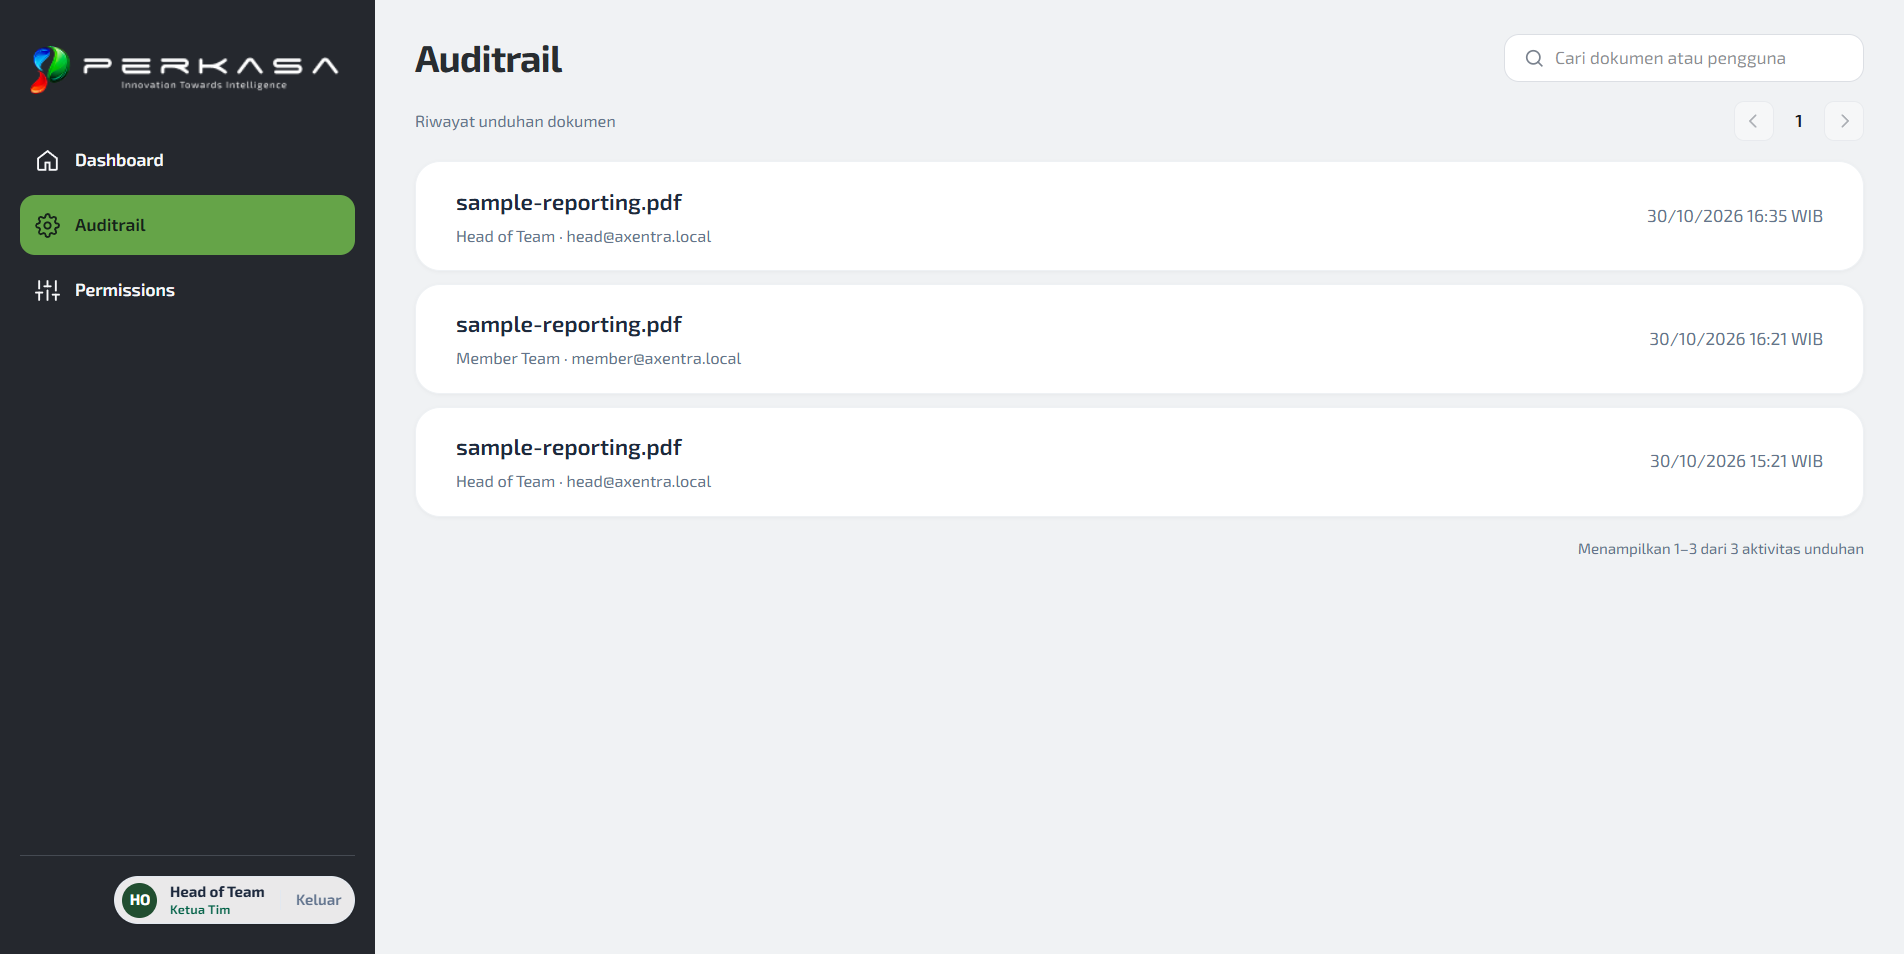
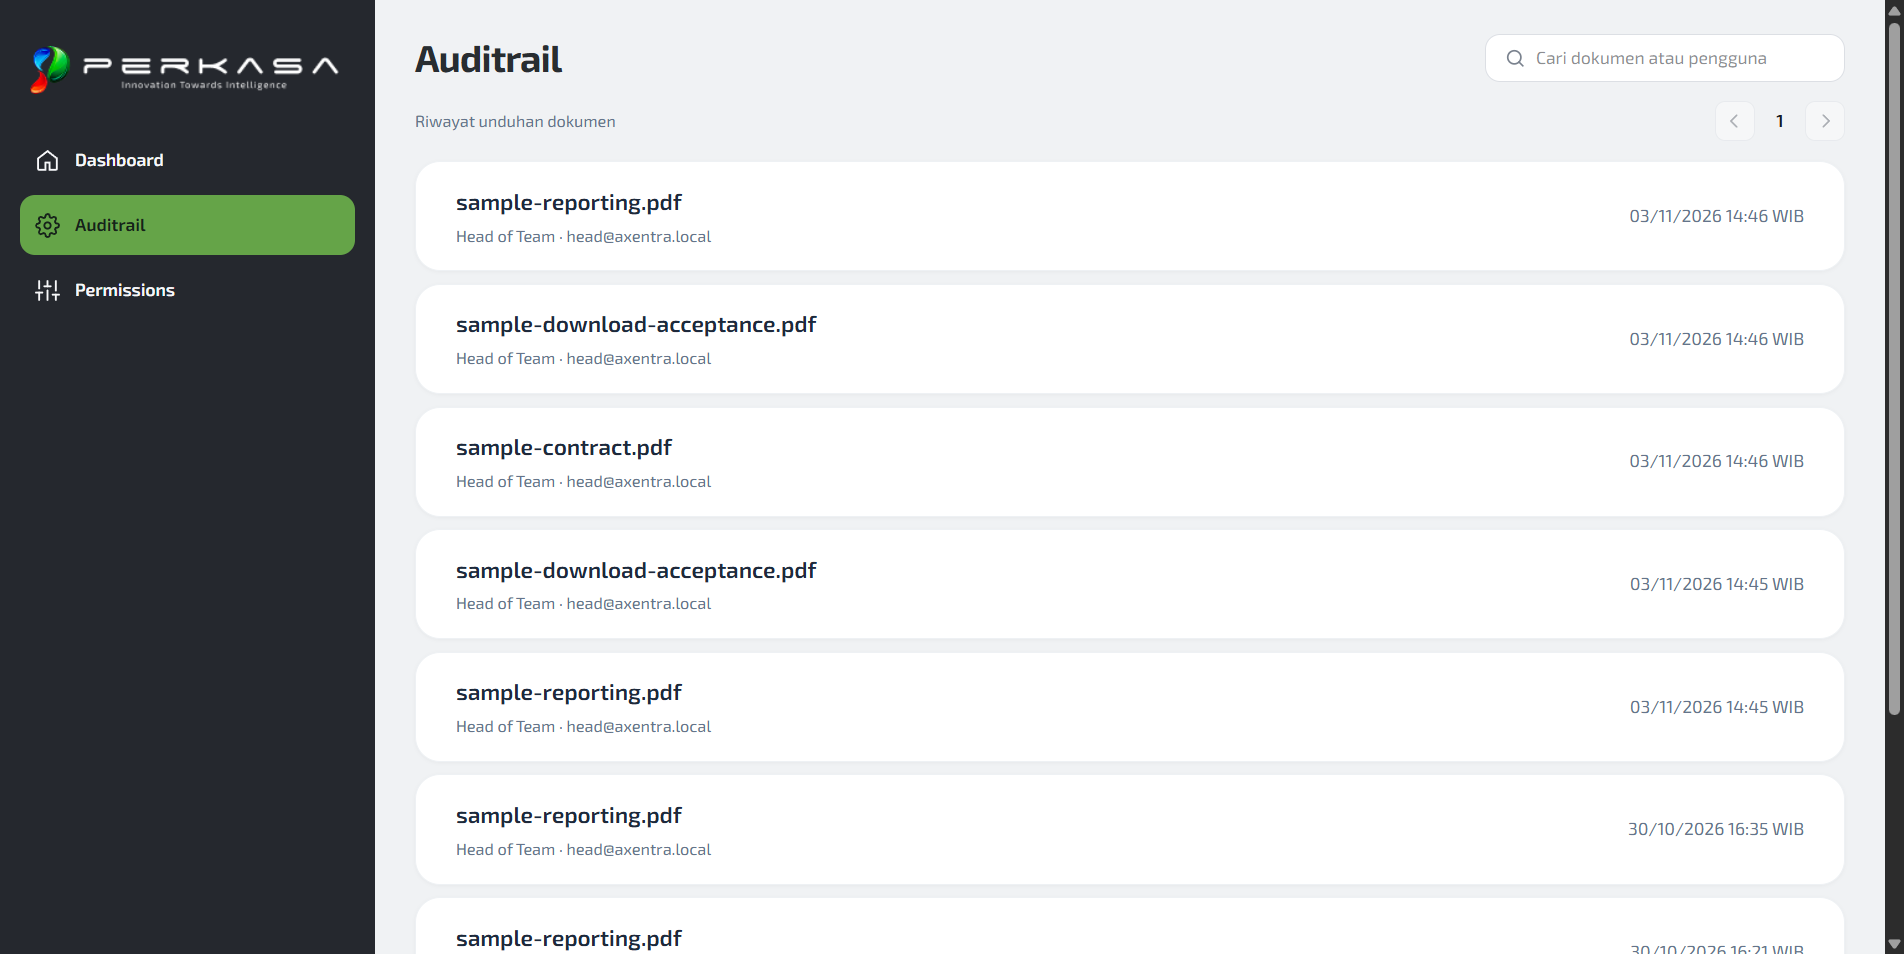
docs(fe-s4-02): refine Run 4 API evidence [FE-S4-02]

diff --git a/docs/screenshots/FE-S4-02/EVIDENCE.md b/docs/screenshots/FE-S4-02/EVIDENCE.md
@@ -9,45 +9,55 @@
 
 ---
 
-### Run 4 — Walkthrough AC-12.01 pada head 9fca9b7 (2026-11-03)
+### Run 4 — Walkthrough AC-12.01 pada head `9fca9b7` (2026-11-03)
 
-Dijalankan secara interaktif melalui browser Chromium lokal (Chrome DevTools MCP) terhadap stack lokal terintegrasi (Bun 1.4.3, PostgreSQL, Redis, MinIO di Docker Desktop 29.6.1, Hono API `http://localhost:3001`, React/Vite Web `http://localhost:5173`). Walkthrough memakai login UI resmi untuk akun seed `head_of_team`; fixture dokumen sintetis `sample-reporting.pdf`; 11 audit event tersimpan di database lokal.
+Walkthrough dijalankan melalui Chromium/Chrome DevTools MCP pada stack lokal terintegrasi (Bun 1.4.3, PostgreSQL, Redis, MinIO/Docker Desktop 29.6.1, API `http://localhost:3001`, Web `http://localhost:5173`). Login Head of Team memakai UI resmi.
+
+**SHA kode diuji:** `9fca9b7725a3740cada5ab8493338085f4e5ac37`. Commit dokumentasi/screenshot: `8c1b25ac8239c63b01fa859fc79d747b8cf9f6bf`.
+
+**Data API nyata:** Dua unduhan single-file sukses (`sample-reporting.pdf` dan `sample-download-acceptance.pdf`); percobaan Member Team mengunduh `sample-contract.pdf` ditolak HTTP 403 dan tidak membuat audit event; bulk download Head of Team atas tiga dokumen menghasilkan HTTP 200 ZIP dan tiga event audit. Total lima event baru dari API untuk tiga dokumen, ditambah tiga event lama. Secara terpisah, delapan row sintetis sempat dimasukkan langsung ke DB untuk uji pagination 11 event; row tersebut telah dihapus kembali. Uji pagination tersebut membuktikan perilaku UI, bukan jalur pencatatan unduhan API.
 
 ```text
 AC:          AC-12.01 (Tracking Log Unduhan)
 Card:        FE-S4-02
-Commit:      9fca9b7725a3740cada5ab8493338085f4e5ac37
+Commit kode: 9fca9b7725a3740cada5ab8493338085f4e5ac37
+Commit bukti:8c1b25ac8239c63b01fa859fc79d747b8cf9f6bf
 Environment: local, Web http://localhost:5173, API http://localhost:3001, Bun 1.4.3, Docker Desktop 29.6.1, Chromium
-Role:        head_of_team (head@axentra.local, login UI resmi); member_team route check attempted
-Input:       sample-reporting.pdf (fixture sintetis), 11 event unduhan
+Role:        head_of_team; member_team
+Input:       Dua unduhan single-file dan satu bulk download melalui API untuk tiga dokumen sintetis
 Status:      Recorded, release pending (sign-off akhir oleh Arya Isnaidi)
 ```
 
-| Langkah | Deskripsi Uji                                            | Hasil yang Diharapkan                                                                                                                                               | Hasil yang Diamati                                                                                                                                                                                                                        | Status                  |
-| ------- | -------------------------------------------------------- | ------------------------------------------------------------------------------------------------------------------------------------------------------------------- | ----------------------------------------------------------------------------------------------------------------------------------------------------------------------------------------------------------------------------------------- | ----------------------- |
-| **A**   | Lihat daftar utama                                       | Satu kartu per event unduhan; menampilkan nama dokumen, pengguna, dan waktu `dd/mm/yyyy HH:mm WIB`. Dua event untuk dokumen sama tampil sebagai dua kartu terpisah. | Halaman 1 menampilkan 10 kartu event individual (dari 11 event di DB); `sample-reporting.pdf` tampil dengan pengguna dan waktu WIB per event.                                                                                             | **Pass**                |
-| **B**   | Teks hitungan di bawah daftar                            | `Menampilkan x–y dari N aktivitas unduhan`; jumlah kartu sama dengan `y − x + 1`.                                                                                   | Halaman 1: `Menampilkan 1–10 dari 11 aktivitas unduhan` (10 kartu). Halaman 2: `Menampilkan 11–11 dari 11 aktivitas unduhan` (1 kartu).                                                                                                   | **Pass**                |
-| **C**   | Klik satu kartu                                          | Drawer `Detail Log` terbuka; fokus berpindah ke tombol tutup; scroll latar belakang terkunci.                                                                       | Drawer dialog terbuka dengan backdrop blur; fokus otomatis ke `Tutup detail log`; `document.body.style.overflow` menjadi `hidden`.                                                                                                        | **Pass**                |
-| **D**   | Tekan Tab/Shift+Tab di drawer                            | Fokus tetap di drawer, tidak keluar ke halaman di belakang.                                                                                                         | Snapshot browser setelah Tab dan Shift+Tab menunjukkan fokus tetap pada tombol `Tutup detail log` di dalam drawer.                                                                                                                        | **Pass**                |
-| **E**   | Tekan Escape                                             | Drawer tertutup; fokus kembali ke kartu pemicu; scroll kembali normal.                                                                                              | Dialog tertutup; fokus keyboard kembali tepat ke kartu pemicu; body scroll dipulihkan.                                                                                                                                                    | **Pass**                |
-| **F**   | Cari nama pengguna                                       | Hanya event cocok yang tampil.                                                                                                                                      | Belum diverifikasi interaktif: pemeriksaan alat browser tidak berhasil mengosongkan input type=search secara deterministik. Presenter/unit code membatasi filter ke halaman server yang aktif.                                            | **Not verified**        |
-| **G**   | Cari teks acak `zzz-tidak-ada`                           | Tertulis `Tidak ada hasil yang ditemukan`.                                                                                                                          | Pesan BA tampil persis; hitungan menunjukkan `0 hasil pada halaman 1 dari 1; total 3 aktivitas unduhan`.                                                                                                                                  | **Pass**                |
-| **H**   | Paginasi dengan 11 event                                 | Halaman 2 memuat event lebih lama; tombol sebelumnya aktif; tombol berikutnya nonaktif dengan tooltip `Sudah di halaman terakhir`.                                  | Halaman 1: 10 dari 11; setelah klik berikutnya halaman 2 dari 2 menampilkan event ke-11, tombol sebelumnya aktif, tombol berikutnya nonaktif dan berlabel `Sudah di halaman terakhir`.                                                    | **Pass**                |
-| **I**   | Sidebar                                                  | Menu `Auditrail` aktif; logo PERKASA tampil.                                                                                                                        | Logo PERKASA tampil; menu `Auditrail` memiliki state aktif/highlight.                                                                                                                                                                     | **Pass**                |
-| **J**   | Logout, login sebagai `member_team`, buka `/audit-trail` | Halaman riwayat tidak dapat diakses oleh role yang tidak diizinkan.                                                                                                 | **Not verified**: akun `member@axentra.local` menolak password uji dengan pesan `Email atau kata sandi salah`; tanpa login, akses membuka halaman login. Test integrasi role gate memverifikasi `member_team` diblokir tanpa request API. | **Not verified (live)** |
-| **K**   | Periksa seluruh teks halaman/drawer                      | Tidak ada label UI bahasa Inggris, selain title tab browser.                                                                                                        | Label dan pesan yang diuji dalam bahasa Indonesia.                                                                                                                                                                                        | **Pass**                |
+| Langkah | Deskripsi uji                                                                                                               | Hasil yang diharapkan                                                               | Hasil yang diamati                                                                                                                                                                                  | Status             |
+| ------- | --------------------------------------------------------------------------------------------------------------------------- | ----------------------------------------------------------------------------------- | --------------------------------------------------------------------------------------------------------------------------------------------------------------------------------------------------- | ------------------ |
+| **A**   | Daftar utama: satu kartu per event; dokumen, user, waktu WIB. Unduhan berulang atas dokumen sama tetap jadi kartu terpisah. | Semua field Siapa/Apa/Kapan per event terlihat.                                     | API menghasilkan lima event baru untuk tiga dokumen; bersama tiga event lama, daftar menampilkan delapan kartu. Dokumen berulang tampil sebagai event terpisah.                                     | **Pass**           |
+| **B**   | Hitungan sesuai kartu dan rentang.                                                                                          | `Menampilkan x–y dari N aktivitas unduhan`.                                         | Ditampilkan `Menampilkan 1–8 dari 8 aktivitas unduhan`; delapan kartu terlihat.                                                                                                                     | **Pass**           |
+| **C**   | Klik kartu, cek drawer, fokus awal, scroll lock.                                                                            | Drawer terbuka; fokus ke tombol tutup; background terkunci.                         | Drawer `Detail Log` terbuka dengan backdrop blur; fokus ke `Tutup detail log`; body overflow `hidden`. Log drawer memuat event dokumen yang sedang tampil di halaman.                               | **Pass**           |
+| **D**   | Tekan Tab/Shift+Tab.                                                                                                        | Fokus tetap di dalam drawer.                                                        | Snapshot sebelum dan sesudah keypress tetap melaporkan tombol tutup sebagai fokus; perpindahan urutan fokus tidak dapat diamati dari snapshot, sehingga traversal penuh belum terverifikasi manual. | **Partial**        |
+| **E**   | Escape menutup drawer.                                                                                                      | Fokus kembali ke kartu pemicu dan scroll pulih.                                     | Drawer tertutup; fokus kembali ke kartu pemicu; body scroll dipulihkan.                                                                                                                             | **Pass**           |
+| **F**   | Cari nama user dan nama dokumen.                                                                                            | Hanya event yang cocok yang terlihat.                                               | `sample-contract` menampilkan satu event; `head@axentra.local` menampilkan tujuh hasil dari delapan event.                                                                                          | **Pass**           |
+| **G**   | Cari teks acak.                                                                                                             | Pesan `Tidak ada hasil yang ditemukan`.                                             | Copy BA tampil persis; jumlah hasil nol.                                                                                                                                                            | **Pass**           |
+| **H**   | Pagination >10 event.                                                                                                       | Halaman dua menampilkan sisa event; tombol berikutnya nonaktif di halaman terakhir. | UI diuji pada 11 event (8 row insert langsung ke DB + 3 lama): halaman pertama tampil 10 kartu, halaman dua satu kartu. Delapan row buatan sudah dihapus; tes ini hanya verifikasi pagination UI.   | **Pass (UI only)** |
+| **I**   | Sidebar dan logo.                                                                                                           | Logo PERKASA; menu Auditrail aktif.                                                 | Logo PERKASA dan menu Auditrail aktif terlihat.                                                                                                                                                     | **Pass**           |
+| **J**   | Login Member Team dan akses `/audit-trail`.                                                                                 | Role member ditolak.                                                                | Login `member@axentra.local` berhasil; route menampilkan `Akses Dibatasi`. Screenshot live disimpan.                                                                                                | **Pass**           |
+| **K**   | Bahasa halaman/drawer.                                                                                                      | Label UI dalam Bahasa Indonesia.                                                    | Halaman dan drawer menggunakan Bahasa Indonesia; label sidebar `Permissions` masih berbahasa Inggris.                                                                                               | **Partial**        |
 
-#### Screenshot Bukti Run 4:
+#### Screenshot Run 4
 
-- [Daftar utama — 10 event per halaman](audit-trail-2026-11-03-list.png)
+- [Daftar sesudah unduhan API nyata](audit-trail-2026-11-03-api-downloads.png)
+- [Daftar uji pagination 11 event](audit-trail-2026-11-03-list.png)
 - [Drawer Detail Log](audit-trail-2026-11-03-drawer.png)
 - [Pencarian kosong](audit-trail-2026-11-03-search-empty.png)
-- [Paginasi halaman 2](audit-trail-2026-11-03-pagination-page2.png)
+- [Pencarian email user](audit-trail-2026-11-03-search-user.png)
+- [Pagination halaman dua](audit-trail-2026-11-03-pagination-page2.png)
+- [Akses Member Team ditolak](audit-trail-2026-11-03-member-blocked.png)
 
-![Audit Trail List Run 4](audit-trail-2026-11-03-list.png)
-![Audit Trail Detail Drawer Run 4](audit-trail-2026-11-03-drawer.png)
-![Audit Trail Search Empty Run 4](audit-trail-2026-11-03-search-empty.png)
-![Audit Trail Pagination Page 2 Run 4](audit-trail-2026-11-03-pagination-page2.png)
+![Daftar setelah download API nyata](audit-trail-2026-11-03-api-downloads.png)
+![Drawer](audit-trail-2026-11-03-drawer.png)
+![Pencarian kosong](audit-trail-2026-11-03-search-empty.png)
+![Pencarian user](audit-trail-2026-11-03-search-user.png)
+![Pagination halaman dua](audit-trail-2026-11-03-pagination-page2.png)
+![Route guard Member Team](audit-trail-2026-11-03-member-blocked.png)
 
 ---
 
